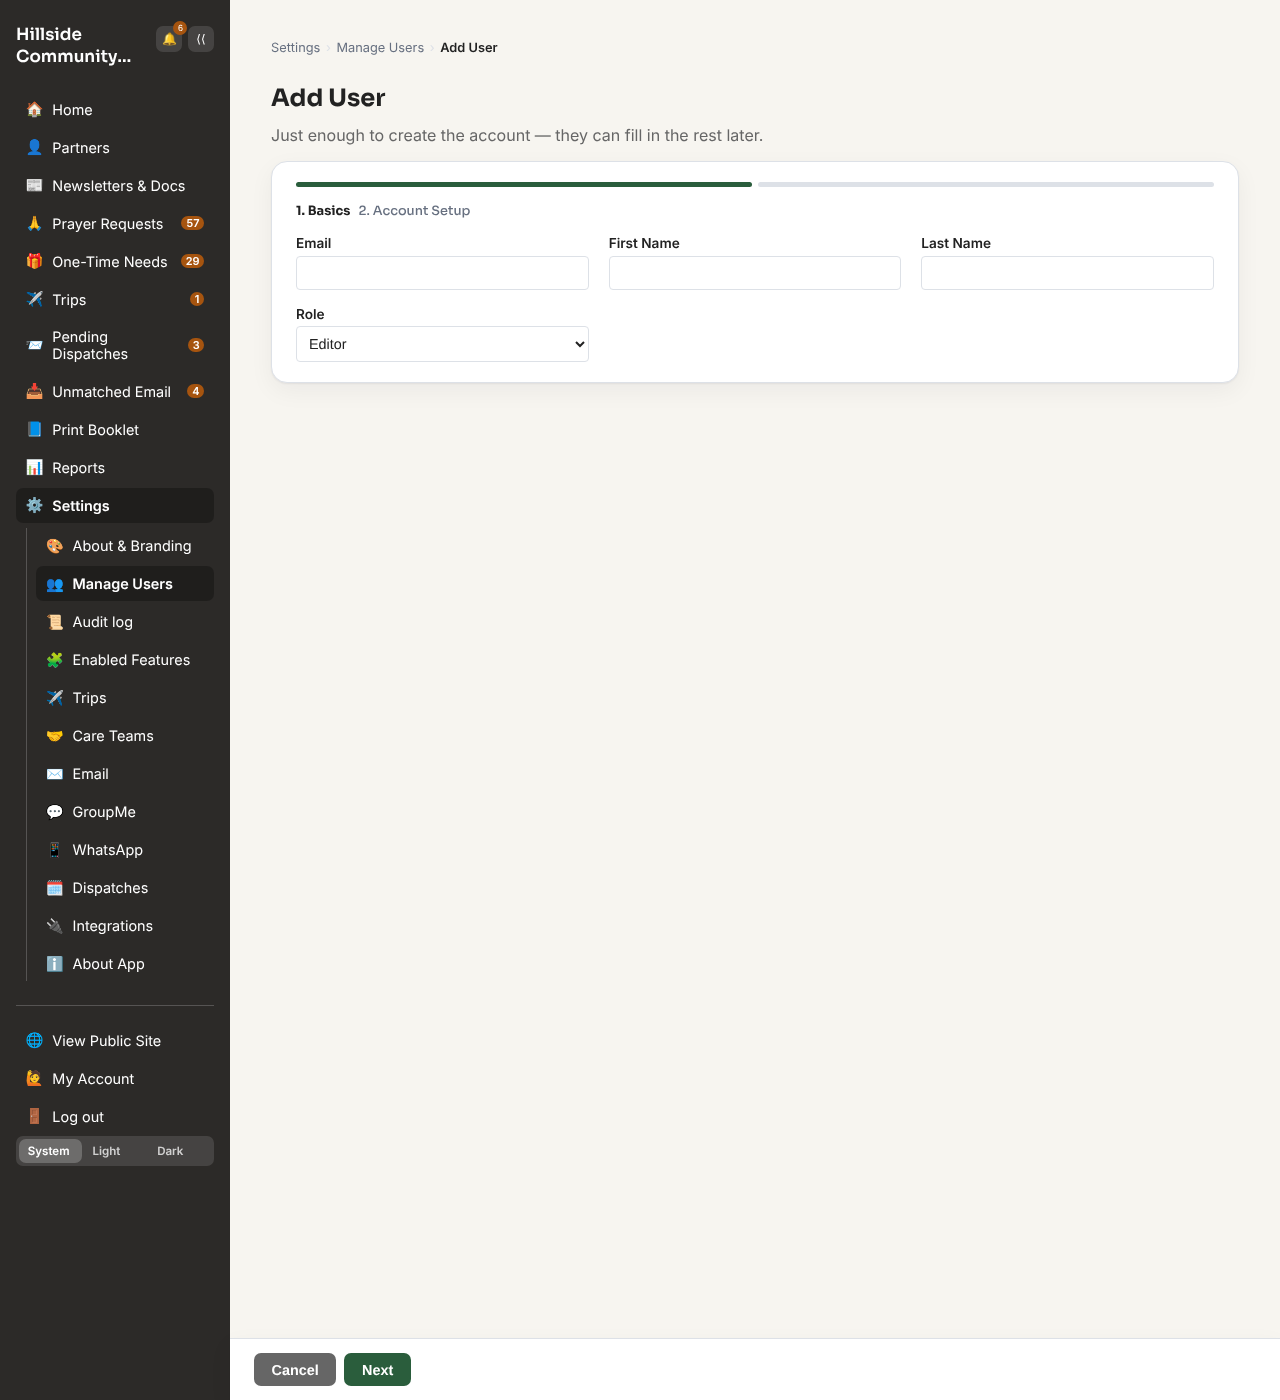
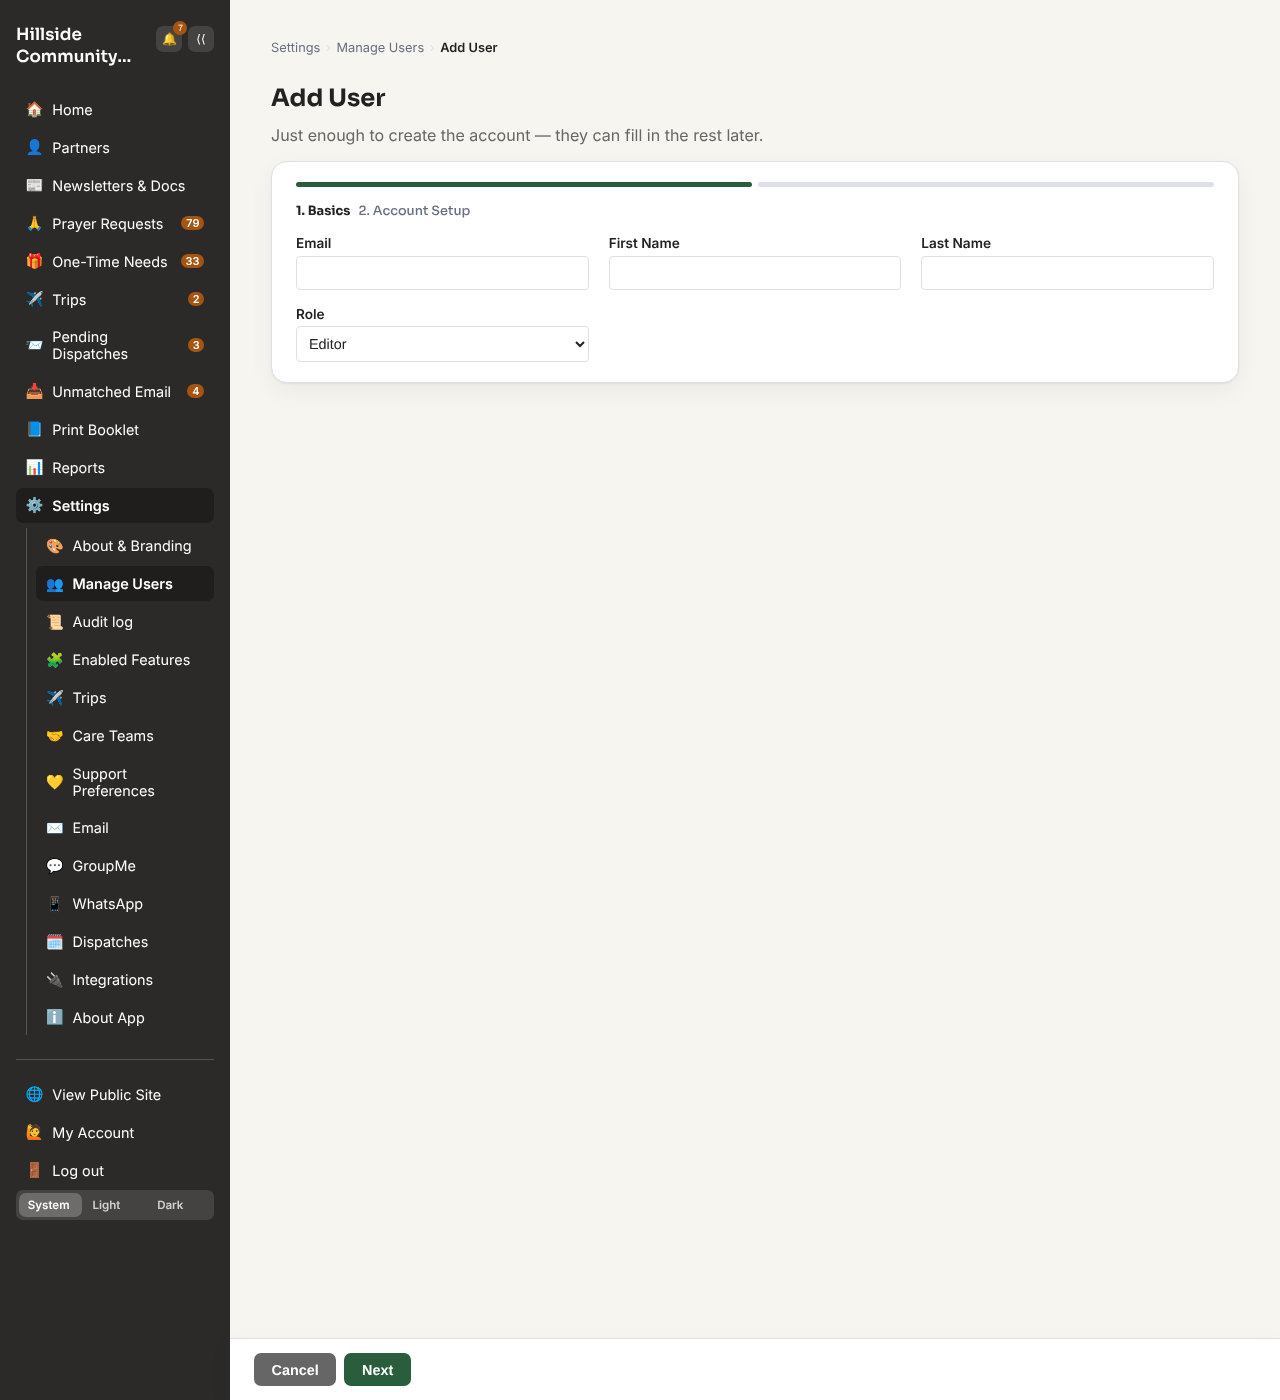
Documentation screenshots for the new features; recapture the settings pages for the new sidebar entries
Claude-Session: https://claude.ai/code/session_01MmRKDYXLtPvHu3ZZXFwPQ9

Changed region(s): [[0.0, 0.5529, 0.1875, 0.8907]]

diff --git a/USER_GUIDE.md b/USER_GUIDE.md
@@ -47,6 +47,10 @@ expires in 15 minutes; it signs you in and then walks you through adding a
 passkey. Lost your passkey? Ask an admin to **Reset MFA** on your account;
 they'll hand you a fresh way in.
 
+![The sign-in page with passwordless sign-in on: a passkey button and an emailed link](docs/assets/screenshots/sign-in-passwordless.png)
+
+![After the emailed link: add a passkey (or use an authenticator app) to finish signing in](docs/assets/screenshots/sign-in-add-passkey.png)
+
 ### Understanding your role
 
 Every user has one of three full roles:
@@ -743,7 +747,13 @@ When a trip is over, **Wrap up trip** (a button beside the trip's name, for admi
 5. **Photos.** The album link, if the trip has none.
 6. **Access.** When the trip leaders' access ends: 30 days after the trip's end date unless it was given another date. To extend it or end it now, use the Team tab.
 
+![A finished trip with its Wrap up trip button](docs/assets/screenshots/trip-ready-to-wrap-up.png)
+
+![The debrief step of the Wrap up trip wizard: four optional prompts](docs/assets/screenshots/trip-wrap-up-debrief.png)
+
 The debrief then shows on the trip's **Overview** (with **Edit debrief** to change it later; the first wrap-up time is kept). Nothing is emailed. Two bell items help: **Trips ready to wrap up** (staff, and a leader for their own trip) counts trips whose end date has passed and that aren't completed, and **Trips wrapped up** tells a partner's care team for two weeks after a trip is wrapped up.
+
+![A wrapped-up trip's Overview, with its debrief](docs/assets/screenshots/trip-debrief.png)
 
 ### Newsletters & Docs
 
@@ -957,6 +967,10 @@ With **Support preferences** turned on in [Enabled Features](ADMIN_GUIDE.md#feat
 - **Who can see it:** staff and the partner's care team only, on the partner's page. It never appears on the public site, in the booklet, or in dispatches. How a partner prefers to be contacted is the **Preferred contact** on their Contact card, not here.
 - **Reports → Support preferences** lists what each partner has chosen (sort by an option to see who wants it) or, with **Show: Partners with nothing recorded**, who still needs that conversation.
 
+![A partner's Support preferences card, grouped by kind of support](docs/assets/screenshots/support-preferences-card.png)
+
+![Settings → Support Preferences, the church's own menu](docs/assets/screenshots/support-preferences-settings.png)
+
 It records preferences; it doesn't schedule or assign anything, and the app never contacts a partner for you.
 
 ## Settings
@@ -1030,6 +1044,8 @@ everyone back; and outbound email can't be switched off while it is on. If
 email breaks, or someone loses their passkey, **Reset MFA** on their row
 clears it and you hand them a setup link. It can't be turned on for the
 public demo.
+
+![Manage Users with passwordless sign-in on](docs/assets/screenshots/manage-users-passwordless.png)
 
 **+ Add User** opens its own page: email, name,
 role (Admin, Editor, Viewer, or Guest — pick at least one trip for a
@@ -1657,6 +1673,8 @@ asks for your password. If your church requires two-factor, you can't remove
 your last way of signing in; add another first. A passkey only works on the
 address your church's site is served from. An admin's **Reset MFA** clears
 your passkeys along with your authenticator app.
+
+![My Account: two-factor enabled with passkeys, and the list of passkeys](docs/assets/screenshots/my-account-passkeys.png)
 
 If [Email (Sending)](#email-admin-only) is turned on for the church,
 there's also an **Email Dispatch** section here: a cadence (no
